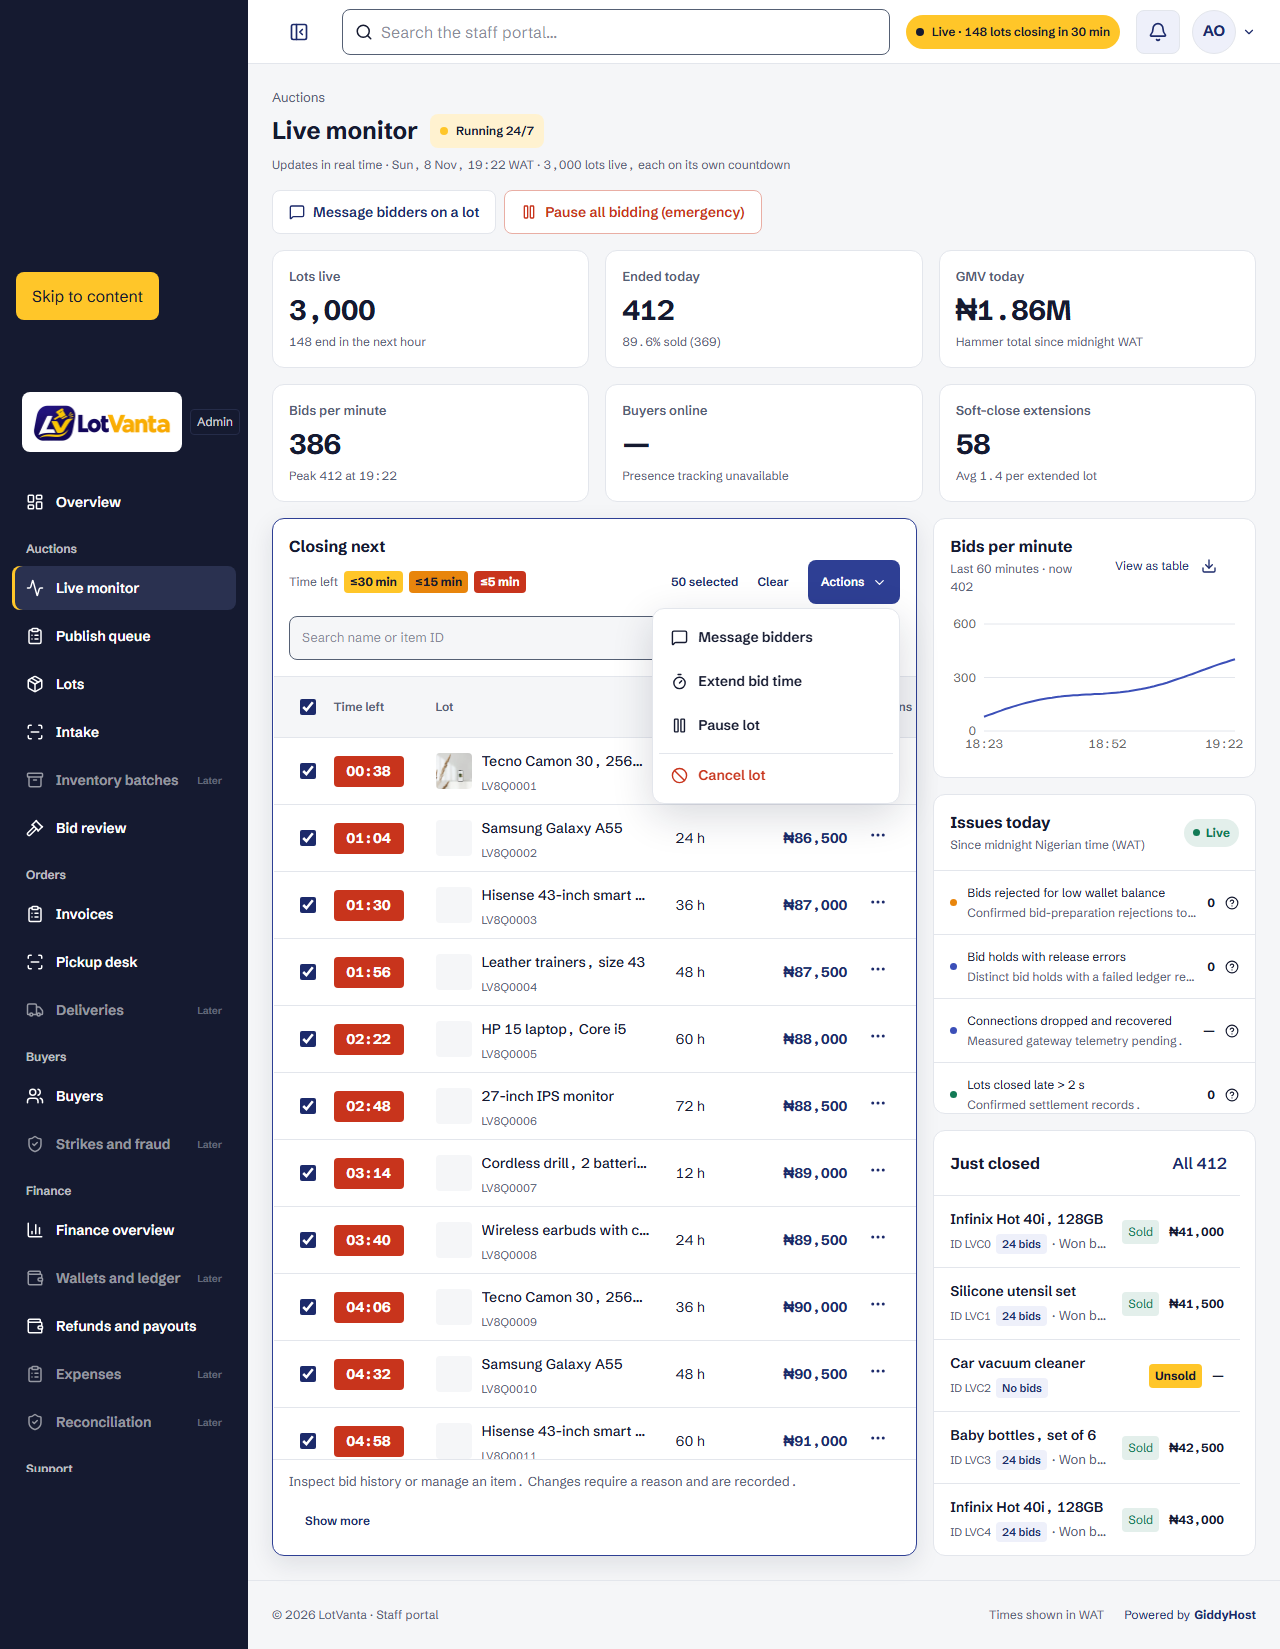
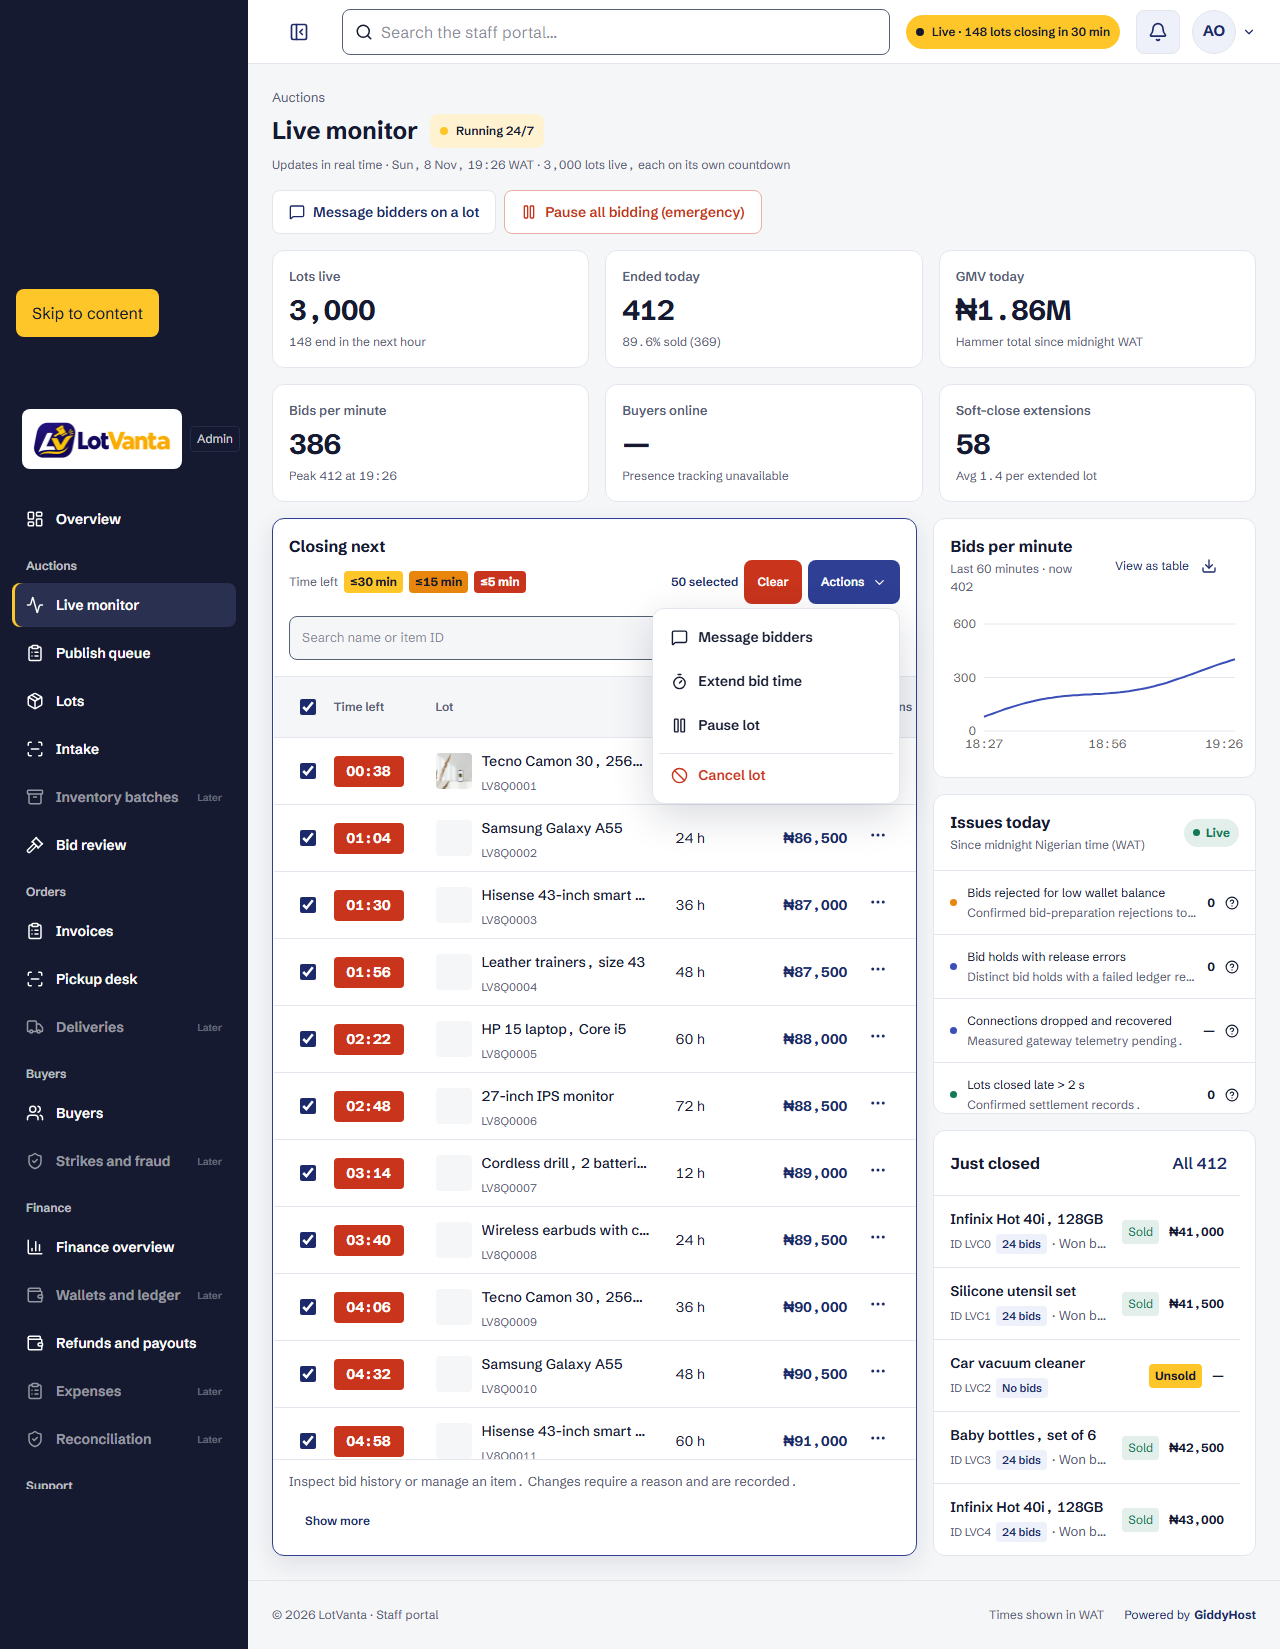
fix(admin): toggle bulk actions menu and highlight clear

Changed region(s): [[0.0, 0.1546, 0.1875, 0.8969], [0.5625, 0.3402, 0.625, 0.3711]]

diff --git a/tests/e2e/staff-live-monitor.spec.ts b/tests/e2e/staff-live-monitor.spec.ts
@@ -874,6 +874,15 @@ test('selects loaded lots and offers permission-aware bulk actions beside the ti
   await expect(all).toHaveJSProperty('indeterminate', true);
   await all.check();
   await expect(page.getByText('50 selected', { exact: true })).toBeVisible();
+  const clear = page.getByRole('button', { name: 'Clear', exact: true });
+  await expect(clear).toHaveCSS('background-color', 'rgb(200, 52, 28)');
+  await page.getByRole('button', { name: 'Actions', exact: true }).click();
+  await expect(page.getByRole('menuitem')).toHaveCount(4);
+  await page.getByRole('button', { name: 'Actions', exact: true }).click();
+  await expect(page.getByRole('menu')).toHaveCount(0);
+  await expect(
+    page.getByRole('button', { name: 'Actions', exact: true }),
+  ).toHaveAttribute('aria-expanded', 'false');
   await page.getByRole('button', { name: 'Actions', exact: true }).click();
   await expect(page.getByRole('menuitem')).toHaveCount(4);
   for (const width of [360, 768, 1280]) {

diff --git a/packages/ui/admin/monitor-bulk-actions.tsx b/packages/ui/admin/monitor-bulk-actions.tsx
@@ -37,11 +37,14 @@ export function MonitorBulkActions({
   return (
     <span className="lv-monitor-bulk-actions">
       <span>{rows.length} selected</span>
-      <Button variant="ghost" onClick={onClear} disabled={disabled}>
+      <Button variant="danger" onClick={onClear} disabled={disabled}>
         Clear
       </Button>
       <Button
-        onClick={(event) => setAnchor(event.currentTarget)}
+        onClick={(event) => {
+          const trigger = event.currentTarget;
+          setAnchor((current) => (current ? null : trigger));
+        }}
         disabled={disabled}
         aria-haspopup="menu"
         aria-expanded={!!anchor}

diff --git a/docs/TASKS.md b/docs/TASKS.md
@@ -174,6 +174,8 @@ The admin is built in eight smaller tasks. Every one follows `docs/ADMIN_DESIGN.
 
 ### [ ] T15d — Overview dashboards
 
+**Bulk menu correction (2026-11-08):** Clear uses the shared red danger button; Actions toggles the dropdown closed on a second click. Focused toggle/clear and responsive browser checks, affected lint/types and admin build cover this correction. T15d remains open.
+
 **Closing next bulk actions (2026-11-08):** added individual/select-all-loaded checkboxes, a selected count and right-aligned permission-filtered Actions menu for correction messages, extensions, pauses and cancellations. Reviews disclose per-lot effects, require reasons/typed confirmations and process eligible lots independently. Exact per-lot requests survive pending-result checks and workspace navigation; completed jobs never repeat. API receipts distinguish processing from completed actions. Focused runner/client, synthetic browser, existing SQL/Redis concurrency/recovery, lint/type and API/admin build checks cover this work. See `docs/specs/live-monitor-bulk-actions.md`; T15d remains open. **MONEY/BID CHANGE — needs human review.**
 
 **Staff search border correction (2026-11-08, refined):** global staff search and Closing next search use restrained 1px slate borders that turn indigo on hover/focus, without duplicate outlines or input shadows. Focused browser assertions cover pointer/keyboard focus, responsive 360/768/1280 captures, formatting/lint, admin types and production build. T15d remains open.
